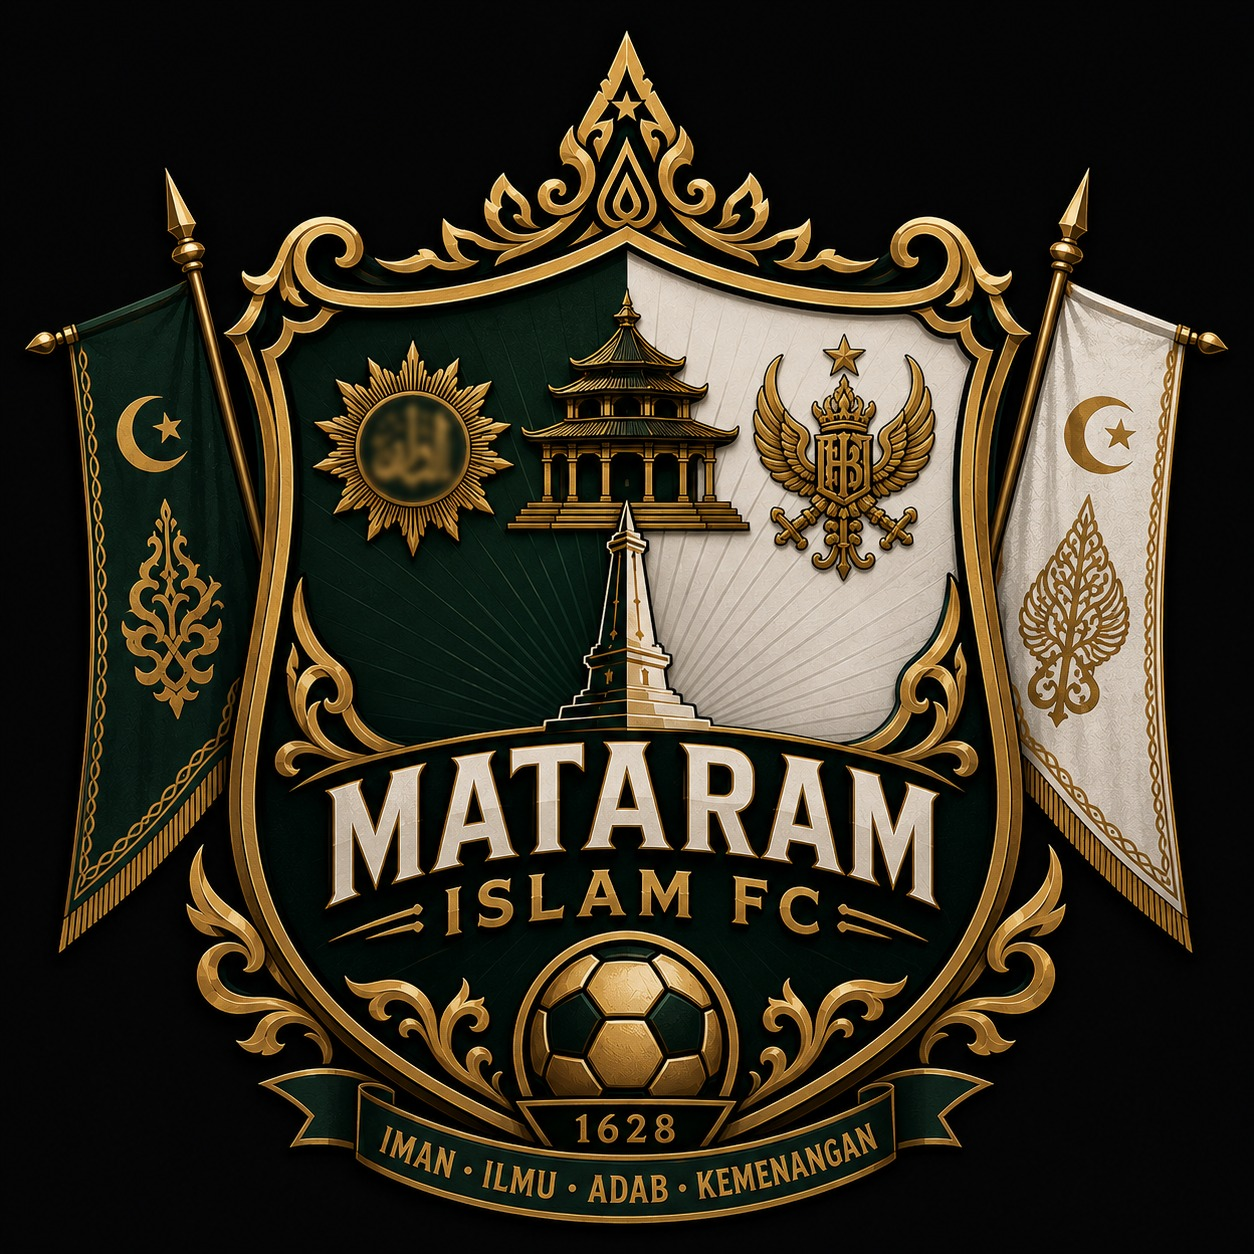
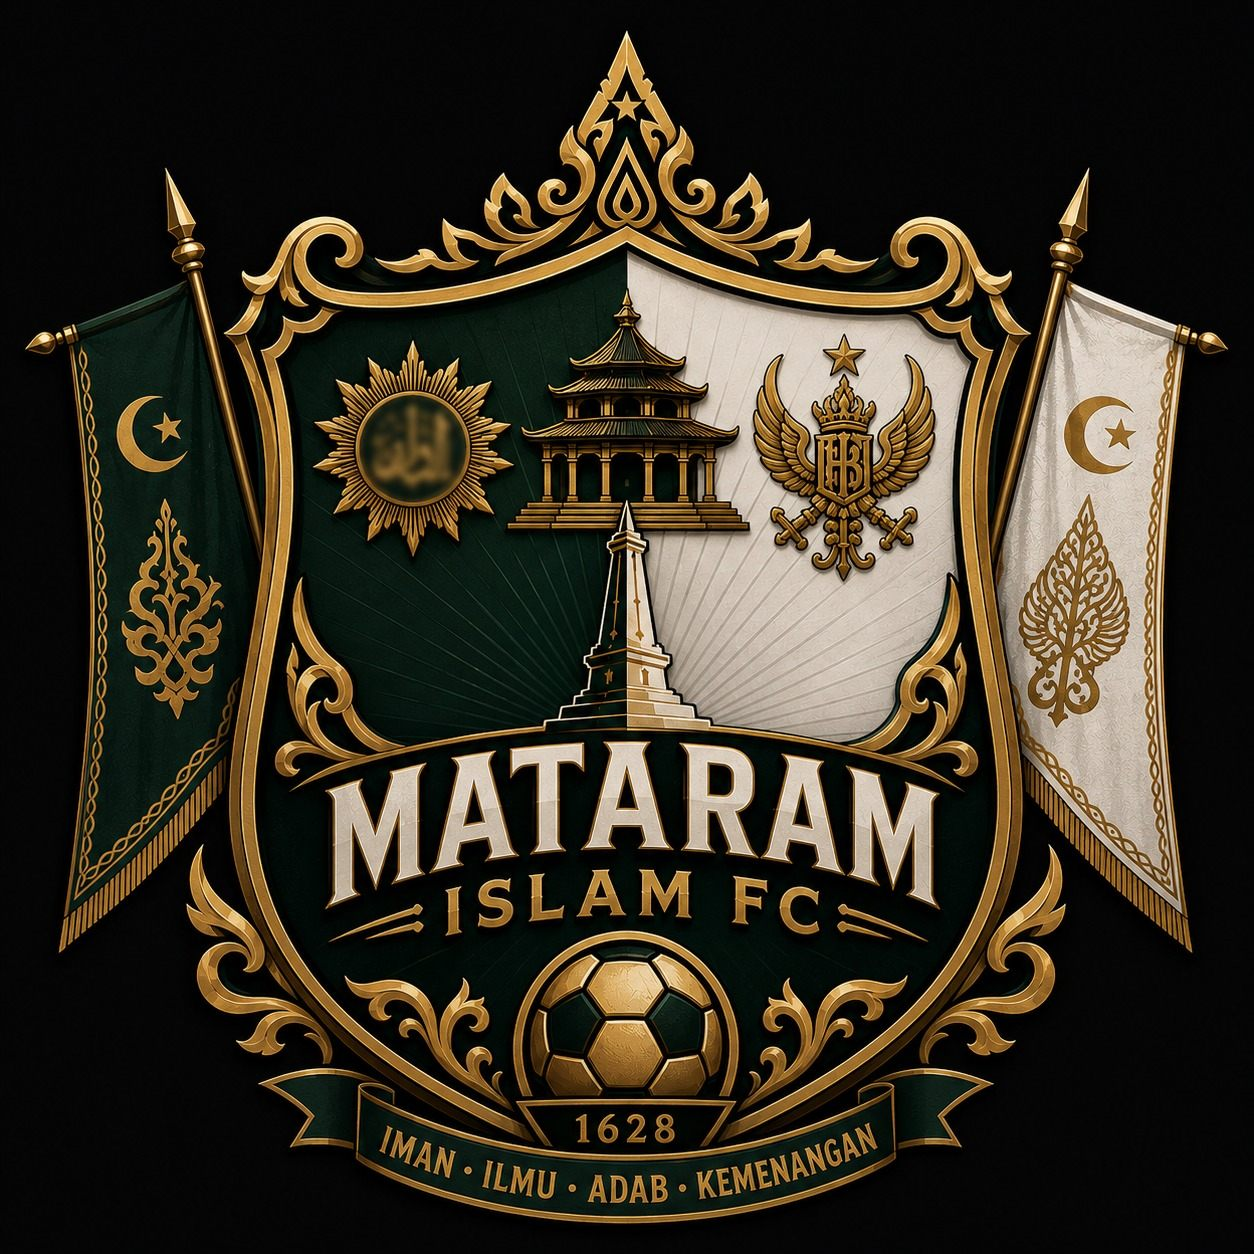
Thumbnail WhatsApp: gambar preview <300 KB, hapus meta refresh

diff --git a/api/a.js b/api/a.js
@@ -1,5 +1,6 @@
 // Halaman share artikel: /a/<id> berisi tag Open Graph (judul, ringkasan, gambar) untuk preview WhatsApp/Facebook,
-// lalu langsung mengarahkan pembaca ke /#/baca/<id>. WhatsApp tidak menjalankan JavaScript, jadi tag ini wajib ada di HTML.
+// lalu mengarahkan pembaca lewat JavaScript (bukan meta refresh, karena WhatsApp ikut redirect itu dan kehilangan gambar).
+// Gambar preview sebaiknya JPG < 300 KB; lebih besar sering diabaikan WhatsApp.
 const vm = require('vm');
 
 const esc = s => String(s).replace(/[&<>"']/g, c => `&#${c.charCodeAt(0)};`);
@@ -17,7 +18,7 @@ module.exports = async (req, res) => {
   // Halaman non-artikel yang bisa dibagikan dengan preview sendiri: /a/sponsor
   if (id === 'sponsor') a = { judul: 'Garmen Seragam - Sponsor Resmi Liga Futsal KAF Beji',
     ringkas: 'Konveksi seragam kerja, rompi, dan kemeja custom. Jahitan rapi, tepat waktu, harga terjangkau.',
-    gambar: 'sponsor-seragam-kerja.png', tujuan: '/#/sponsor' };
+    gambar: 'og-sponsor.jpg', lebar: 1200, tinggi: 630, tujuan: '/#/sponsor' };
   const tujuan = a ? a.tujuan || `/#/baca/${encodeURIComponent(id)}` : '/';
   const judul = a ? teks(a.judul) : 'Kabar Liga';
   const ringkas = a ? teks(a.ringkas) : 'Berita, analisis, dan cerita Liga Futsal KAF Beji.';
@@ -32,8 +33,10 @@ module.exports = async (req, res) => {
 <meta property="og:title" content="${esc(judul)}">
 <meta property="og:description" content="${esc(ringkas)}">
 <meta property="og:image" content="${esc(gambar)}">
+<meta property="og:image:secure_url" content="${esc(gambar)}">${a && a.lebar ? `
+<meta property="og:image:width" content="${a.lebar}">
+<meta property="og:image:height" content="${a.tinggi}">` : ""}
 <meta property="og:url" content="${esc(host + '/a/' + encodeURIComponent(id))}">
 <meta name="twitter:card" content="summary_large_image">
-<meta http-equiv="refresh" content="0;url=${esc(tujuan)}">
 </head><body><script>location.replace(${JSON.stringify(tujuan)})</script><a href="${esc(tujuan)}">${esc(judul)}</a></body></html>`);
 };
